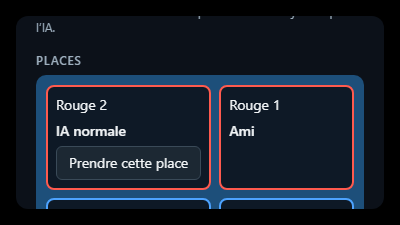
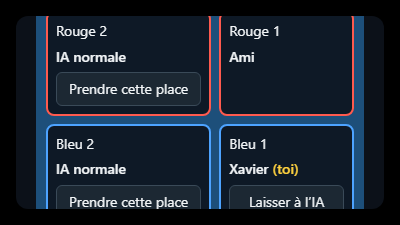
En ligne : chaque fenêtre choisit sa manette ou son clavier dans le salon (retenu par fenêtre, &manette=2)

Changed region(s): [[0.09, 0.0622, 0.93, 0.9333], [0.48, 0.4356, 0.51, 0.4667]]

diff --git a/tests/e2e/enligne.spec.ts b/tests/e2e/enligne.spec.ts
@@ -4,11 +4,13 @@ const env = (globalThis as { process?: { env: Record<string, string | undefined>
 const GAME_SERVER = `localhost:${env.E2E_SERVEUR ?? 2567}`;
 
 /**
- * Manette virtuelle sur la place de ce navigateur, pilotée par une IA qui ne voit que la partie de ce navigateur
- * (comme un joueur devant son écran). Installée avant le chargement de la page : elle attend que la partie existe.
+ * Deux manettes branchées sur le PC, vues par chaque fenêtre (comme sur un vrai PC : le navigateur donne toutes les
+ * manettes à toutes les pages). Dans cette fenêtre, seule la manette `own` (0 ou 1) est tenue, par une IA qui ne voit
+ * que la partie de cette fenêtre (comme un joueur devant son écran) ; l'autre reste au repos. Installée avant le
+ * chargement de la page : elle attend que la partie existe.
  */
-async function virtualPad(page: Page, seed: number): Promise<void> {
-  await page.addInitScript((seed) => {
+async function virtualPads(page: Page, seed: number, own: number): Promise<void> {
+  await page.addInitScript(([seed, own]) => {
     const buttonOf = { normal: 0, overhead: 1, slice: 2, lob: 3 } as const;
     let bot: { commands(duel: unknown): { stick: { forward: number; right: number }; shot: keyof typeof buttonOf | null } } | null = null;
     let lastTick = -1;
@@ -38,43 +40,48 @@ async function virtualPad(page: Page, seed: number): Promise<void> {
         const flip = seat % 2 === 0 ? 1 : -1;
         const buttons = Array.from({ length: 16 }, () => ({ pressed: false, touched: false, value: 0 }));
         if (commands.shot) buttons[buttonOf[commands.shot]] = { pressed: true, touched: true, value: 1 };
-        pads = [
-          {
-            index: 0,
-            id: 'manette virtuelle',
-            connected: true,
-            mapping: 'standard',
-            axes: [commands.stick.right * flip, -commands.stick.forward * flip, 0, 0],
-            buttons,
-          } as unknown as Gamepad,
-        ];
+        const idle = Array.from({ length: 16 }, () => ({ pressed: false, touched: false, value: 0 }));
+        pads = [0, 1].map(
+          (index) =>
+            ({
+              index,
+              id: `manette virtuelle ${index + 1}`,
+              connected: true,
+              mapping: 'standard',
+              axes: index === own ? [commands.stick.right * flip, -commands.stick.forward * flip, 0, 0] : [0, 0, 0, 0],
+              buttons: index === own ? buttons : idle,
+            }) as unknown as Gamepad,
+        );
       }
       return pads;
     };
-  }, seed);
+  }, [seed, own] as const);
 }
 
 /**
- * Jeu en ligne, phase 1 : deux onglets (deux joueurs) passent par le salon et le vrai serveur (`npm run serveur`) :
- * l'un crée une salle, l'autre la rejoint avec son code, l'hôte lance un double (les deux places libres jouées par l'IA
- * du serveur). Chaque navigateur doit calculer exactement le même match que le serveur, seconde après seconde, et le
- * match doit vraiment se jouer.
+ * Jeu en ligne, phase 1 : deux onglets (deux joueurs sur un même PC, deux manettes) passent par le salon et le vrai
+ * serveur (`npm run serveur`) : l'un crée une salle et choisit la manette 1 dans le salon, l'autre rejoint avec le
+ * code et `&manette=2` dans l'adresse ; l'hôte lance un double (les deux places libres jouées par l'IA du serveur).
+ * Chaque fenêtre ne doit lire que sa manette (sinon l'invité, qui lirait la manette 1 au repos chez lui, ne frapperait
+ * jamais), et calculer exactement le même match que le serveur, seconde après seconde.
  */
 test('en ligne : deux joueurs, une salle à code, le même match que le serveur', async ({ browser }) => {
   test.setTimeout(150_000);
   const errors: string[] = [];
-  const open = async (seed: number): Promise<Page> => {
+  const open = async (seed: number, own: number, query = ''): Promise<Page> => {
     const context = await browser.newContext({ viewport: { width: 400, height: 225 } });
     const page = await context.newPage();
     page.on('pageerror', (error) => errors.push(error.message));
-    await virtualPad(page, seed);
-    await page.goto(`/?enligne&serveur=${GAME_SERVER}&boutons=1`);
+    await virtualPads(page, seed, own);
+    await page.goto(`/?enligne&serveur=${GAME_SERVER}&boutons=1${query}`);
     await page.waitForSelector('#online-name');
     return page;
   };
-  const host = await open(61);
-  const guest = await open(62);
+  const host = await open(61, 0);
+  const guest = await open(62, 1, '&manette=2');
+  await expect(guest.locator('#online-device')).toHaveValue('manette2');
 
+  await host.selectOption('#online-device', 'manette1');
   await host.fill('#online-name', 'Xavier');
   await host.click('#online-create');
   const codeBox = host.locator('.room-code');

diff --git a/src/modes/online.ts b/src/modes/online.ts
@@ -1,18 +1,39 @@
 import { Connection, serverUrl } from '../net/connection';
 import { TICKS_PER_FRAME } from '../net/fakeNet';
 import { SIM_DT } from '../sim/constants';
-import { loadSettings } from '../ui/duelSettings';
+import { DEVICES, isHuman, loadSettings, type Device } from '../ui/duelSettings';
 import { createOnlineLobby } from '../ui/onlineLobby';
 import { startDuel } from './duel';
 
 /** Délai d'entrée par défaut (images) et rollback au plus (ms) en ligne. [à juger à la manette] */
 const DEFAULT_DELAY_FRAMES = 1;
 const DEFAULT_WINDOW_MS = 250;
+/** Périphérique choisi dans cette fenêtre (`sessionStorage` : une fenêtre à côté peut en prendre un autre). */
+const DEVICE_KEY = 'padel.enligne.peripherique';
+
+/**
+ * Avec quoi ce navigateur joue sa place : `&manette=2` (1 à 4) ou `&clavier=1` (bleu) / `2` (rouge) dans l'adresse,
+ * sinon le dernier choix fait dans cette fenêtre, sinon le premier périphérique humain des réglages.
+ */
+function initialDevice(params: URLSearchParams, fallback: Device): Device {
+  const pad = Number(params.get('manette'));
+  if (pad >= 1 && pad <= 4) return `manette${pad}` as Device;
+  const keys = Number(params.get('clavier'));
+  if (keys === 1 || keys === 2) return `clavier${keys}` as Device;
+  try {
+    const saved = sessionStorage.getItem(DEVICE_KEY);
+    if (saved && (DEVICES as readonly string[]).includes(saved)) return saved as Device;
+  } catch {
+    // Stockage indisponible : le réglage par défaut.
+  }
+  return fallback;
+}
 
 /**
  * Jeu en ligne (`?enligne`, `research/en-ligne/PLAN_EN_LIGNE.md`, phase 1) : le salon (créer une salle, la rejoindre
  * avec son code, prendre une place), puis le match, joué contre le serveur de jeu (`npm run serveur`). Options d'URL :
- * `&serveur=hote:port` (par défaut cette machine, port 2567), `&delai=1` (images), `&fenetre=250` (ms).
+ * `&serveur=hote:port` (par défaut cette machine, port 2567), `&delai=1` (images), `&fenetre=250` (ms), `&manette=2` ou
+ * `&clavier=1` (avec quoi on joue, aussi au choix dans le salon ; utile pour deux fenêtres sur un même PC).
  */
 export function startOnline(canvas: HTMLCanvasElement): void {
   const params = new URLSearchParams(location.search);
@@ -20,6 +41,7 @@ export function startOnline(canvas: HTMLCanvasElement): void {
   const prefs = { assist: settings.assists[0], prepMove: settings.prepMove, hand: settings.hands[0] };
   const delayFrames = Math.max(0, Math.min(10, Math.round(Number(params.get('delai') ?? DEFAULT_DELAY_FRAMES)) || 0));
   const windowMs = Math.max(50, Math.min(1000, Number(params.get('fenetre') ?? DEFAULT_WINDOW_MS) || DEFAULT_WINDOW_MS));
+  let device = initialDevice(params, settings.players.find(isHuman) ?? 'manette1');
 
   let connection: Connection | null = null;
   let started = false;
@@ -45,6 +67,7 @@ export function startOnline(canvas: HTMLCanvasElement): void {
           startAt,
           seats,
           connection: c,
+          device,
           inputDelay: delayFrames * TICKS_PER_FRAME,
           maxRollback: Math.round(windowMs / 1000 / SIM_DT),
         });
@@ -69,7 +92,15 @@ export function startOnline(canvas: HTMLCanvasElement): void {
     }, 20);
   };
 
-  const lobby = createOnlineLobby({
+  const lobby = createOnlineLobby(device, {
+    device: (chosen) => {
+      device = chosen;
+      try {
+        sessionStorage.setItem(DEVICE_KEY, chosen);
+      } catch {
+        // Sans stockage, le choix vaut jusqu'au rechargement.
+      }
+    },
     create: (name) => connect(name, (c) => c.send({ t: 'create' })),
     join: (name, code) => connect(name, (c) => c.send({ t: 'join', code })),
     seat: (seat) => connection?.send({ t: 'seat', seat }),

diff --git a/src/ui/onlineLobby.ts b/src/ui/onlineLobby.ts
@@ -1,7 +1,7 @@
 import type { AiLevel } from '../sim/bot';
 import type { DuelFormat } from '../sim/duel';
 import type { RoomView } from '../net/protocol';
-import { playerName } from './duelSettings';
+import { CONTROLLER_LABELS, DEVICES, playerName, type Device } from './duelSettings';
 
 const NAME_KEY = 'padel.enligne.nom';
 const LEVELS: { value: AiLevel; label: string }[] = [
@@ -35,6 +35,8 @@ const STYLE = `
 `;
 
 export interface LobbyActions {
+  /** Périphérique choisi pour jouer sa place (retenu par fenêtre). */
+  device(device: Device): void;
   create(name: string): void;
   join(name: string, code: string): void;
   seat(seat: number | null): void;
@@ -44,9 +46,13 @@ export interface LobbyActions {
 
 /**
  * Salon du jeu en ligne (`?enligne`) : son nom, créer une salle ou en rejoindre une avec son code, puis les places
- * (libres = IA), et pour l'hôte, simple ou double, le niveau de l'IA et « Lancer ». À la souris pour l'instant.
+ * (libres = IA), et pour l'hôte, simple ou double, le niveau de l'IA et « Lancer ». Chacun choisit avec quoi il joue
+ * (manette ou clavier) : deux fenêtres sur un même PC peuvent prendre deux manettes. À la souris pour l'instant.
  */
-export function createOnlineLobby(actions: LobbyActions): {
+export function createOnlineLobby(
+  initialDevice: Device,
+  actions: LobbyActions,
+): {
   show(room: RoomView | null): void;
   error(message: string): void;
   status(message: string): void;
@@ -79,11 +85,25 @@ export function createOnlineLobby(actions: LobbyActions): {
   };
   const errorLine = document.createElement('div');
   errorLine.className = 'error';
+  let device = initialDevice;
 
   const el = <K extends keyof HTMLElementTagNameMap>(tag: K, props: Partial<HTMLElementTagNameMap[K]> = {}, ...children: (Node | string)[]): HTMLElementTagNameMap[K] => {
     const node = Object.assign(document.createElement(tag), props);
     node.append(...children);
     return node;
+  };
+
+  /** « Je joue avec » : manettes 1 à 4, clavier bleu ou rouge. */
+  const deviceRow = (): HTMLElement => {
+    const select = el('select');
+    select.id = 'online-device';
+    for (const d of DEVICES) select.append(el('option', { value: d, textContent: CONTROLLER_LABELS[d] }));
+    select.value = device;
+    select.onchange = () => {
+      device = select.value as Device;
+      actions.device(device);
+    };
+    return el('div', { className: 'row' }, select);
   };
 
   const renderHome = (): void => {
@@ -109,6 +129,8 @@ export function createOnlineLobby(actions: LobbyActions): {
       el('p', { className: 'hint', textContent: 'Crée une salle et donne son code à tes amis, ou tape le code d’une salle.' }),
       el('h2', { textContent: 'Ton nom' }),
       el('div', { className: 'row' }, nameInput),
+      el('h2', { textContent: 'Je joue avec' }),
+      deviceRow(),
       el('h2', { textContent: 'Nouvelle salle' }),
       el('div', { className: 'row' }, create),
       el('h2', { textContent: 'Rejoindre une salle' }),
@@ -148,6 +170,8 @@ export function createOnlineLobby(actions: LobbyActions): {
       el('p', { className: 'hint', textContent: 'Donne ce code à tes amis. Les places libres sont jouées par l’IA.' }),
       el('h2', { textContent: 'Places' }),
       seats,
+      el('h2', { textContent: 'Je joue avec' }),
+      deviceRow(),
     ];
     if (host && !room.playing) {
       const format = el('select');

diff --git a/src/modes/duel.ts b/src/modes/duel.ts
@@ -26,6 +26,7 @@ import {
   loadSettings,
   padOf,
   saveSettings,
+  type Device,
   type DuelSettings,
 } from '../ui/duelSettings';
 import { loadFeel } from '../ui/feelStorage';
@@ -50,6 +51,8 @@ export interface OnlineStart {
   startAt: number;
   seats: number[];
   connection: Connection;
+  /** Manette ou clavier qui joue la place de ce navigateur. */
+  device: Device;
   /** Délai d'entrée et rollback au plus (pas). */
   inputDelay: number;
   maxRollback: number;
@@ -106,8 +109,8 @@ export function startDuel(canvas: HTMLCanvasElement, online: OnlineStart | null 
   const fakeNet = online ? null : fakeNetFromUrl(params);
   /** Match en réseau (faux ou vrai) : rollbacks, sons datés, animations lissées, ni ralenti ni micro-pause. */
   const networked = fakeNet !== null || online !== null;
-  /** En ligne : la manette ou le clavier choisi pour la première place humaine joue sa place à soi. */
-  const onlineController = settings.players.find(isHuman) ?? 'manette1';
+  /** En ligne : la manette ou le clavier choisi dans le salon joue sa place à soi. */
+  const onlineController = online?.device ?? 'manette1';
   const view = createDuelView(canvas, duel);
   const hud = createDuelHud();
   const keyboard = createKeyboardPads(canvas);

diff --git a/research/en-ligne/PLAN_EN_LIGNE.md b/research/en-ligne/PLAN_EN_LIGNE.md
@@ -250,17 +250,19 @@ sur Internet (Fly.io, région Paris) ; numéro de version de la sim.
    npm run dev
    ```
 
-2. Ouvrir **http://localhost:5173/?enligne** dans deux onglets (ou deux navigateurs). Dans le premier : son nom,
-   « Créer une salle » ; un code de 4 lettres s'affiche. Dans le second : son nom, le code, « Rejoindre ».
+2. Ouvrir **http://localhost:5173/?enligne&manette=1** et **http://localhost:5173/?enligne&manette=2** dans deux
+   fenêtres côte à côte. Dans la première : son nom, « Créer une salle » ; un code de 4 lettres s'affiche. Dans la
+   seconde : son nom, le code, « Rejoindre ».
 3. Chacun prend une place (les places libres sont jouées par l'IA). L'hôte choisit simple ou double et le niveau de
-   l'IA, puis « Lancer le match ». La manette (ou le clavier) choisie pour la première place humaine dans les
-   réglages joue sa propre place.
+   l'IA, puis « Lancer le match ». Chaque fenêtre joue sa place avec ce qui est choisi sous « Je joue avec » dans le
+   salon (manette 1 à 4, clavier bleu ou rouge), retenu par fenêtre ; `&manette=2` ou `&clavier=1` dans l'adresse
+   le règle d'avance. Sans choix : le premier périphérique humain des réglages (sur deux PC, la manette 1 de chacun).
 4. Avec un ami sur le même réseau (Wi-Fi de la maison) : lancer le jeu avec `npm run dev -- --host`, puis il ouvre
    `http://<adresse de ton PC>:5173/?enligne` (Windows peut demander d'autoriser Node dans le pare-feu). Par
    Internet, il faudra d'abord héberger le serveur.
 
 Options d'URL : `&serveur=hote:port` (autre serveur), `&delai=1` (délai d'entrée, images), `&fenetre=250` (rollback au
-plus, ms).
+plus, ms), `&manette=2` ou `&clavier=1` (avec quoi on joue).
 
 Quoi regarder, dans l'encart en bas à droite : le **ping** mesuré, l'**avance** sur le serveur (en pas de 1/240 s),
 les pas rejoués, les corrections, et surtout **« empreintes : N identiques au serveur »** : si elle passe à
